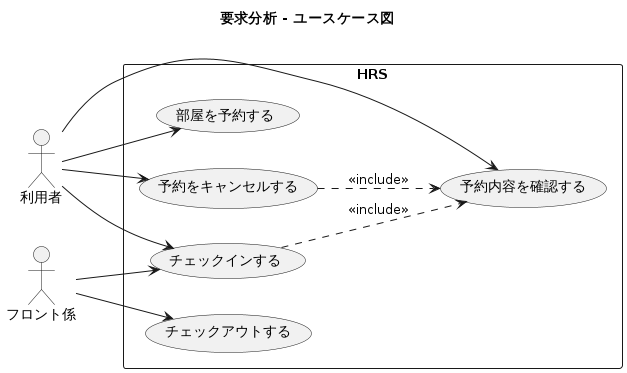
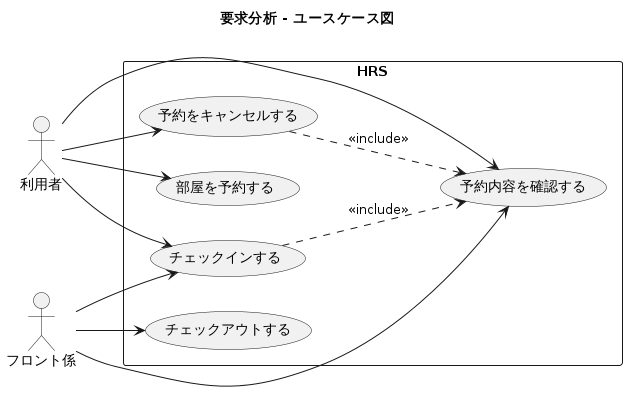
docs(uml): ユースケース図にフロント係→UC4の関連線を追加
## 背景
チェックリスト（`11_review_checklist.md` 課題4）で、要求分析のレビュー項目
「アクタは関わるユースケースとのみ関係づけられている」が△だった。

## 問題点
UC4（予約内容を確認する）の記述（04）とコラボレーション図（08d）はアクタを
「利用者、フロント係」としているのに、ユースケース図（03）にはフロント係→UC4の
関連線がなかった。同じUC4について成果物ごとに読み取れるアクタが食い違っていた。

## 対応内容
- 03 に `Staff --> UC4` を追加した。フロント係はUC2からのinclude経由だけでなく、
  窓口での問い合わせ対応としてUC4を単独でも起動するため、直接の関連線が正しい
  （記述側をUC2経由に絞る案は、単独起動の業務を表現できなくなるため採らなかった）
- 判断理由を .puml のコメントに残した
- `11_review_checklist.md` の該当項目を○に更新し、課題一覧 #4 を対応済みにした

diff --git a/docs/uml/11_review_checklist.md b/docs/uml/11_review_checklist.md
@@ -43,7 +43,7 @@
 | ユースケース | 各ユースケースはまとまった振る舞いの単位である | ○ | いずれもアクタにとって価値のある一連の処理（予約の完了、チェックインの完了など）で区切った |
 | ユースケース | 現在時制かつ能動態の動詞句としてユースケース名がつけられている | ○ | 「部屋を予約する」「チェックインする」「予約をキャンセルする」等、すべて現在時制の能動態 |
 | ユースケース | 全てのユースケースの抽象度はおおむね同程度である | ○ | 5つすべてが「1回の窓口対応で完結する処理」の粒度。UC4のみ他UCからincludeされる共通機能だが、単独でも利用者が使える単位である |
-| アクタ | 関わるユースケースとのみ関係づけられている | △ | 図では利用者→UC1/UC2/UC4/UC5、フロント係→UC2/UC3。一方でUC4の記述のアクタは「利用者、フロント係」であり、**図にフロント係→UC4の関連線がない**。フロント係はUC2経由（include）でUC4を使うという解釈だが、記述と図で読み取れるアクタが一致しない |
+| アクタ | 関わるユースケースとのみ関係づけられている | ○ | 図は利用者→UC1/UC2/UC4/UC5、フロント係→UC2/UC3/UC4。フロント係はUC2からのinclude経由だけでなく窓口での問い合わせ対応としてUC4を単独でも起動するため、直接の関連線を引いた。UC4の記述（04）・コラボレーション図（08d）のアクタとも一致する |
 | ユースケース記述 | 必要な事前条件、事後条件、基本系列、代替・例外系列を明確かつ簡潔に記述している | ○ | 全5UCで5項目すべてを記述。代替系列は正常系の分岐、例外系列は異常事象への対応として分けた |
 | ユースケース記述 | システムへの入力に加えて、システムからの応答を明記している | ○ | アクタの入力ステップの直後にシステムの応答ステップを置いた（例: UC1「1. 利用者が宿泊日・客室タイプを指定する」→「2. システムが該当する空室一覧を提示する」） |
 | ユースケース記述 | 各ステップは現在時制と能動句で記述されている | ○ | 全ステップを「〜が〜する」の能動句で統一 |
@@ -120,7 +120,7 @@
 | 1 | ドメインクラス図に属性がなく、用語辞書として粗い | 主要クラスに属性を追記する | 小 |
 | 2 | ドメインオブジェクト図が具体値を持たず「具体的な状況」になっていない | インスタンス名と属性値を入れる | 小 |
 | 3 | ホテル—客室が単純関連（集約が自然） | 集約に変更する | 小 |
-| 4 | ユースケース図にフロント係→UC4の関連線がなく、UC4の記述と一致しない | 図に線を追加するか、記述側のアクタを利用者のみに絞る | 小 |
+| 4 | ~~ユースケース図にフロント係→UC4の関連線がなく、UC4の記述と一致しない~~ | 対応済み: 図にフロント係→UC4の関連線を追加 | 小 |
 | 5 | 09のエンティティ間関連に誘導可能性の矢印がない | 実装の参照方向に合わせて矢印を付ける | 小 |
 | 6 | 09に合成集約がない（Reservation—Charge / ServiceUsage） | 合成集約に変更する | 小 |
 | 7 | パッケージ設計原則 CRP・CCP・SAP が部分的 | Repository を `Protocol` で抽象化すればSAPと依存性逆転が明確になる。CCPは層分離とのトレードオフとして受容 | 中 |
